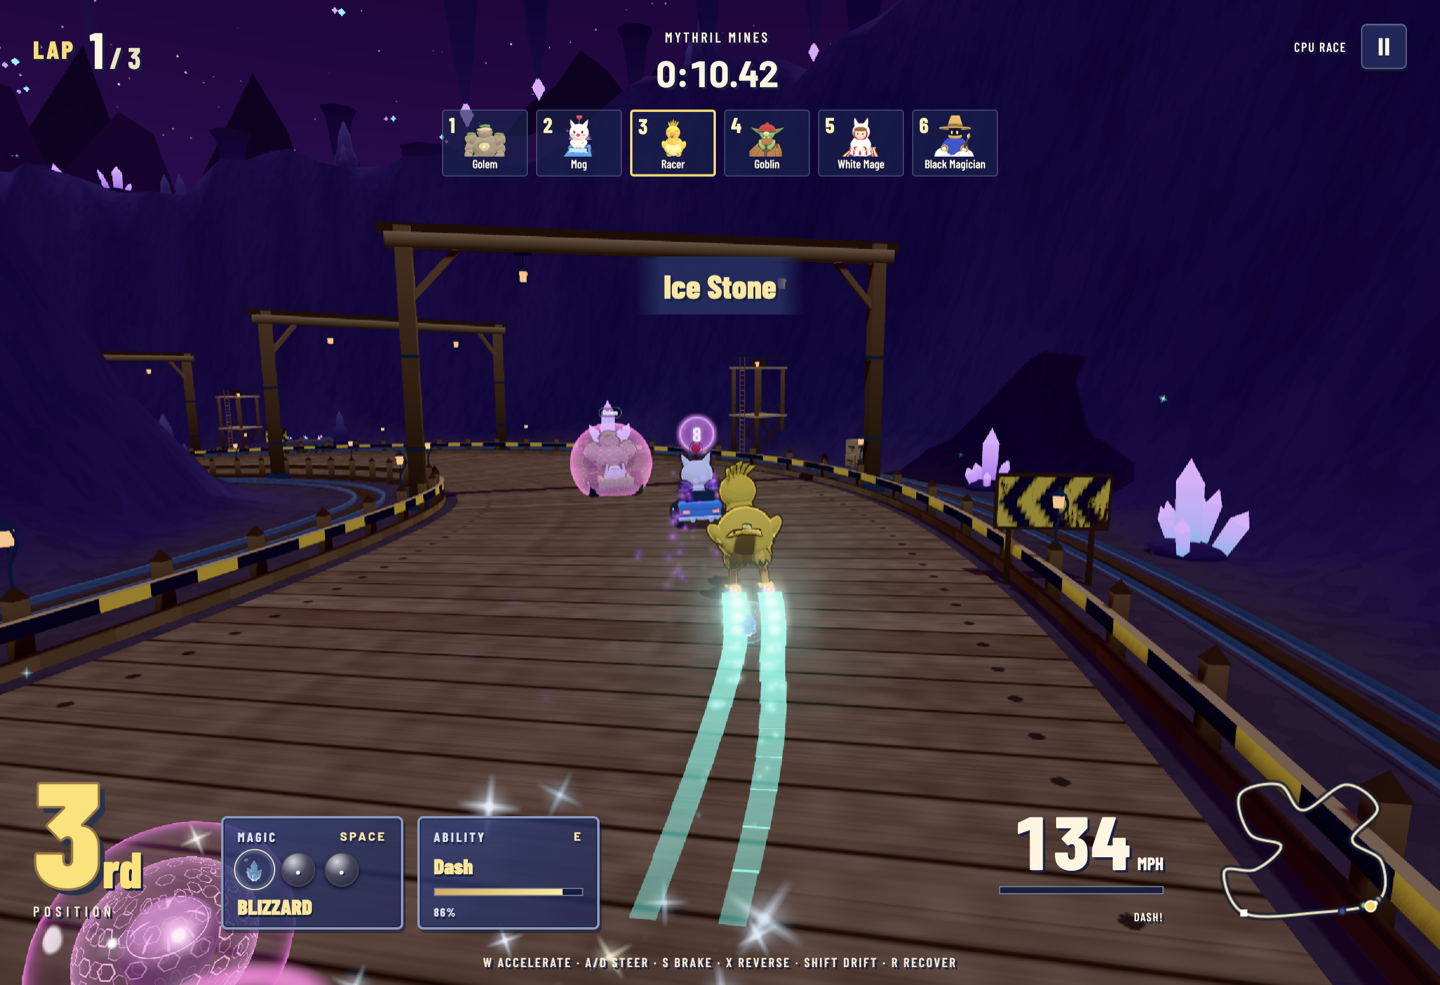
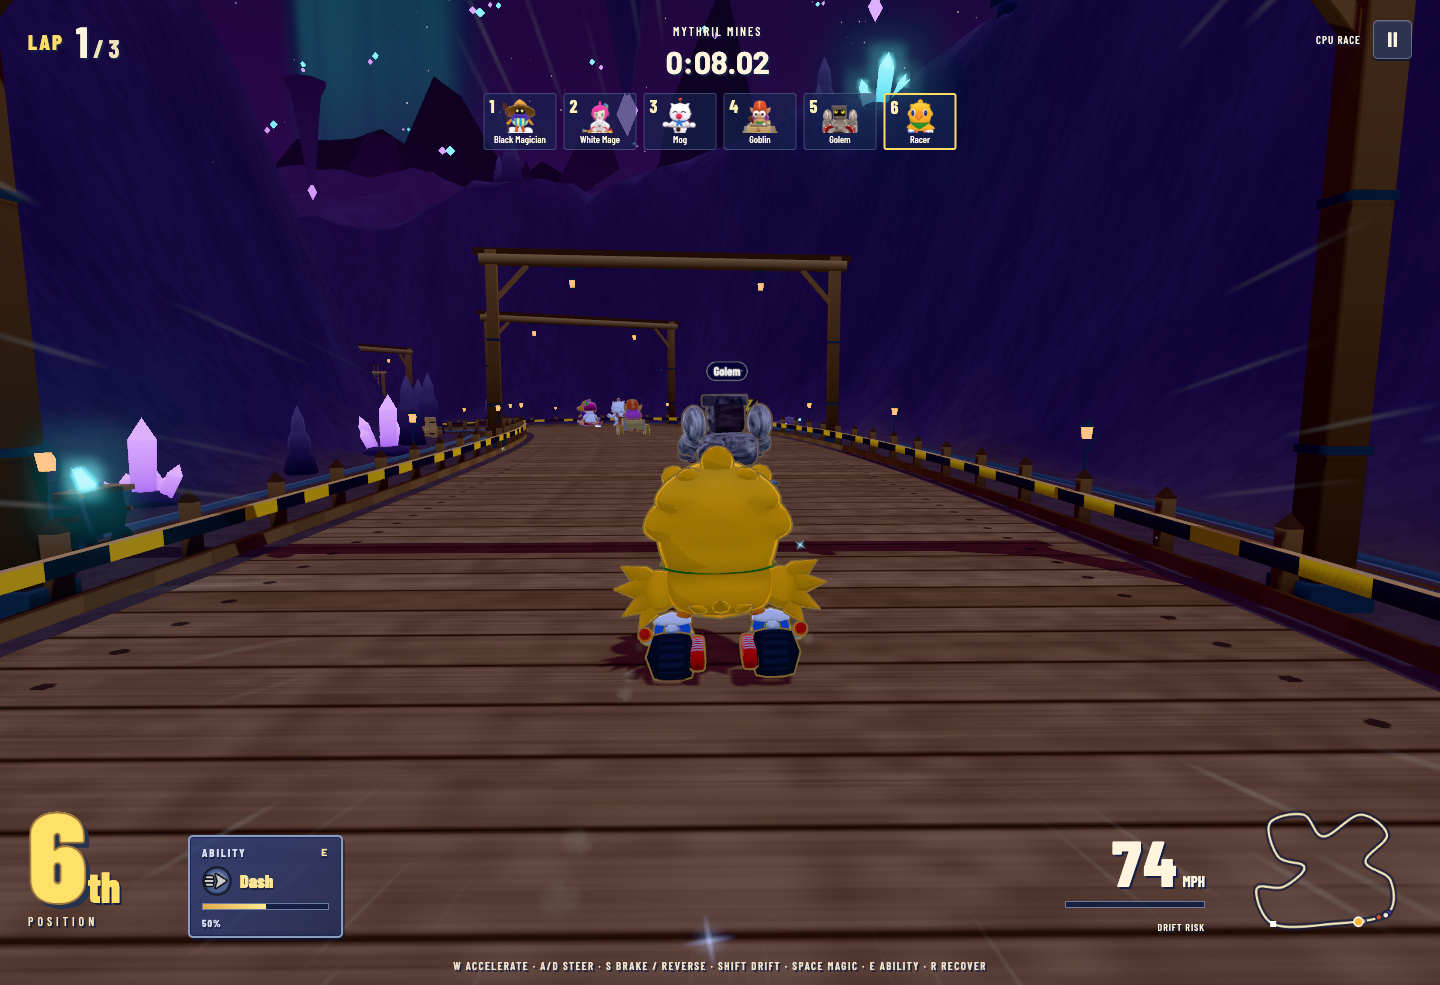
Retake the README screenshots with the new HUD and ability picker

diff --git a/README.md b/README.md
@@ -14,15 +14,15 @@ This is not an identical port. Models, music, animations, maps and physics tunin
 
 ## Screenshots
 
-Captured from the running game with Orca's embedded browser.
+Captured from the running game in headless Chrome at 1440x985.
 
 ### Racer selection
 
-![Racer selection with Chocobo, eight characters and race setup](docs/screenshots/racer-selection.png)
+![Racer selection with Chocobo, the ten racers, the ability badges and race setup](docs/screenshots/racer-selection.png)
 
 ### Racing in Mythril Mines
 
-![Chocobo racing through Mythril Mines with rivals, Magic Stones and the race HUD](docs/screenshots/mythril-mines.png)
+![Chocobo racing through Mythril Mines behind Golem, with the race HUD and its ability badge](docs/screenshots/mythril-mines.png)
 
 ## Play
 
